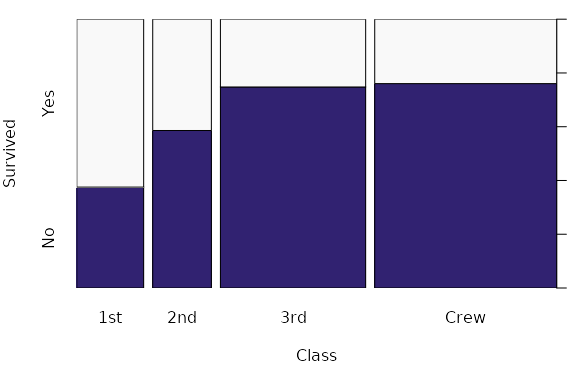
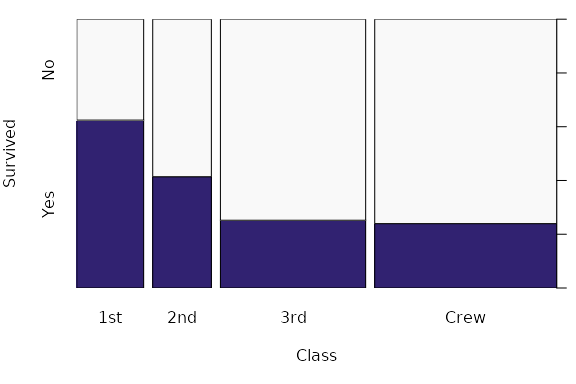
adapted spine plot example to R >= 4.0.0
git-svn-id: svn://svn.r-forge.r-project.org/svnroot/colorspace@552 edb9625f-4e0d-4859-8d74-9fd3b1da38cb

diff --git a/www/articles/colorspace.html b/www/articles/colorspace.html
@@ -192,7 +192,7 @@
 <p><img src="colorspace_files/figure-html/eustockmarkets-plot-1.png" width="100%" style="display: block; margin: auto auto auto 0;"></p>
 <p>As another example for a sequential palette, we demonstrate how to create a spine plot displaying the proportion of Titanic passengers that survived per class. The <code>Purples 3</code> palette is used, which is quite similar to the <strong>ColorBrewer.org</strong> palette <code>Purples</code>. Here, only two colors are employed, yielding a dark purple and a light gray.</p>
 <div class="sourceCode" id="cb7"><pre class="downlit">
-<span class="kw">ttnc</span> <span class="op">&lt;-</span> <span class="fu"><a href="https://rdrr.io/r/base/marginSums.html">margin.table</a></span>(<span class="kw">Titanic</span>, <span class="fu"><a href="https://rdrr.io/r/base/c.html">c</a></span>(<span class="fl">1</span>, <span class="fl">4</span>))[, <span class="fl">2</span><span class="op">:</span><span class="fl">1</span>]
+<span class="kw">ttnc</span> <span class="op">&lt;-</span> <span class="fu"><a href="https://rdrr.io/r/base/marginSums.html">margin.table</a></span>(<span class="kw">Titanic</span>, <span class="fu"><a href="https://rdrr.io/r/base/c.html">c</a></span>(<span class="fl">1</span>, <span class="fl">4</span>))
 <span class="fu"><a href="https://rdrr.io/r/graphics/spineplot.html">spineplot</a></span>(<span class="kw">ttnc</span>, col = <span class="fu"><a href="../reference/hcl_palettes.html">sequential_hcl</a></span>(<span class="fl">2</span>, palette = <span class="st">"Purples 3"</span>))
 </pre></div>
 <p><img src="colorspace_files/figure-html/titanic-plot-1.png" width="100%" style="display: block; margin: auto auto auto 0;"></p>
